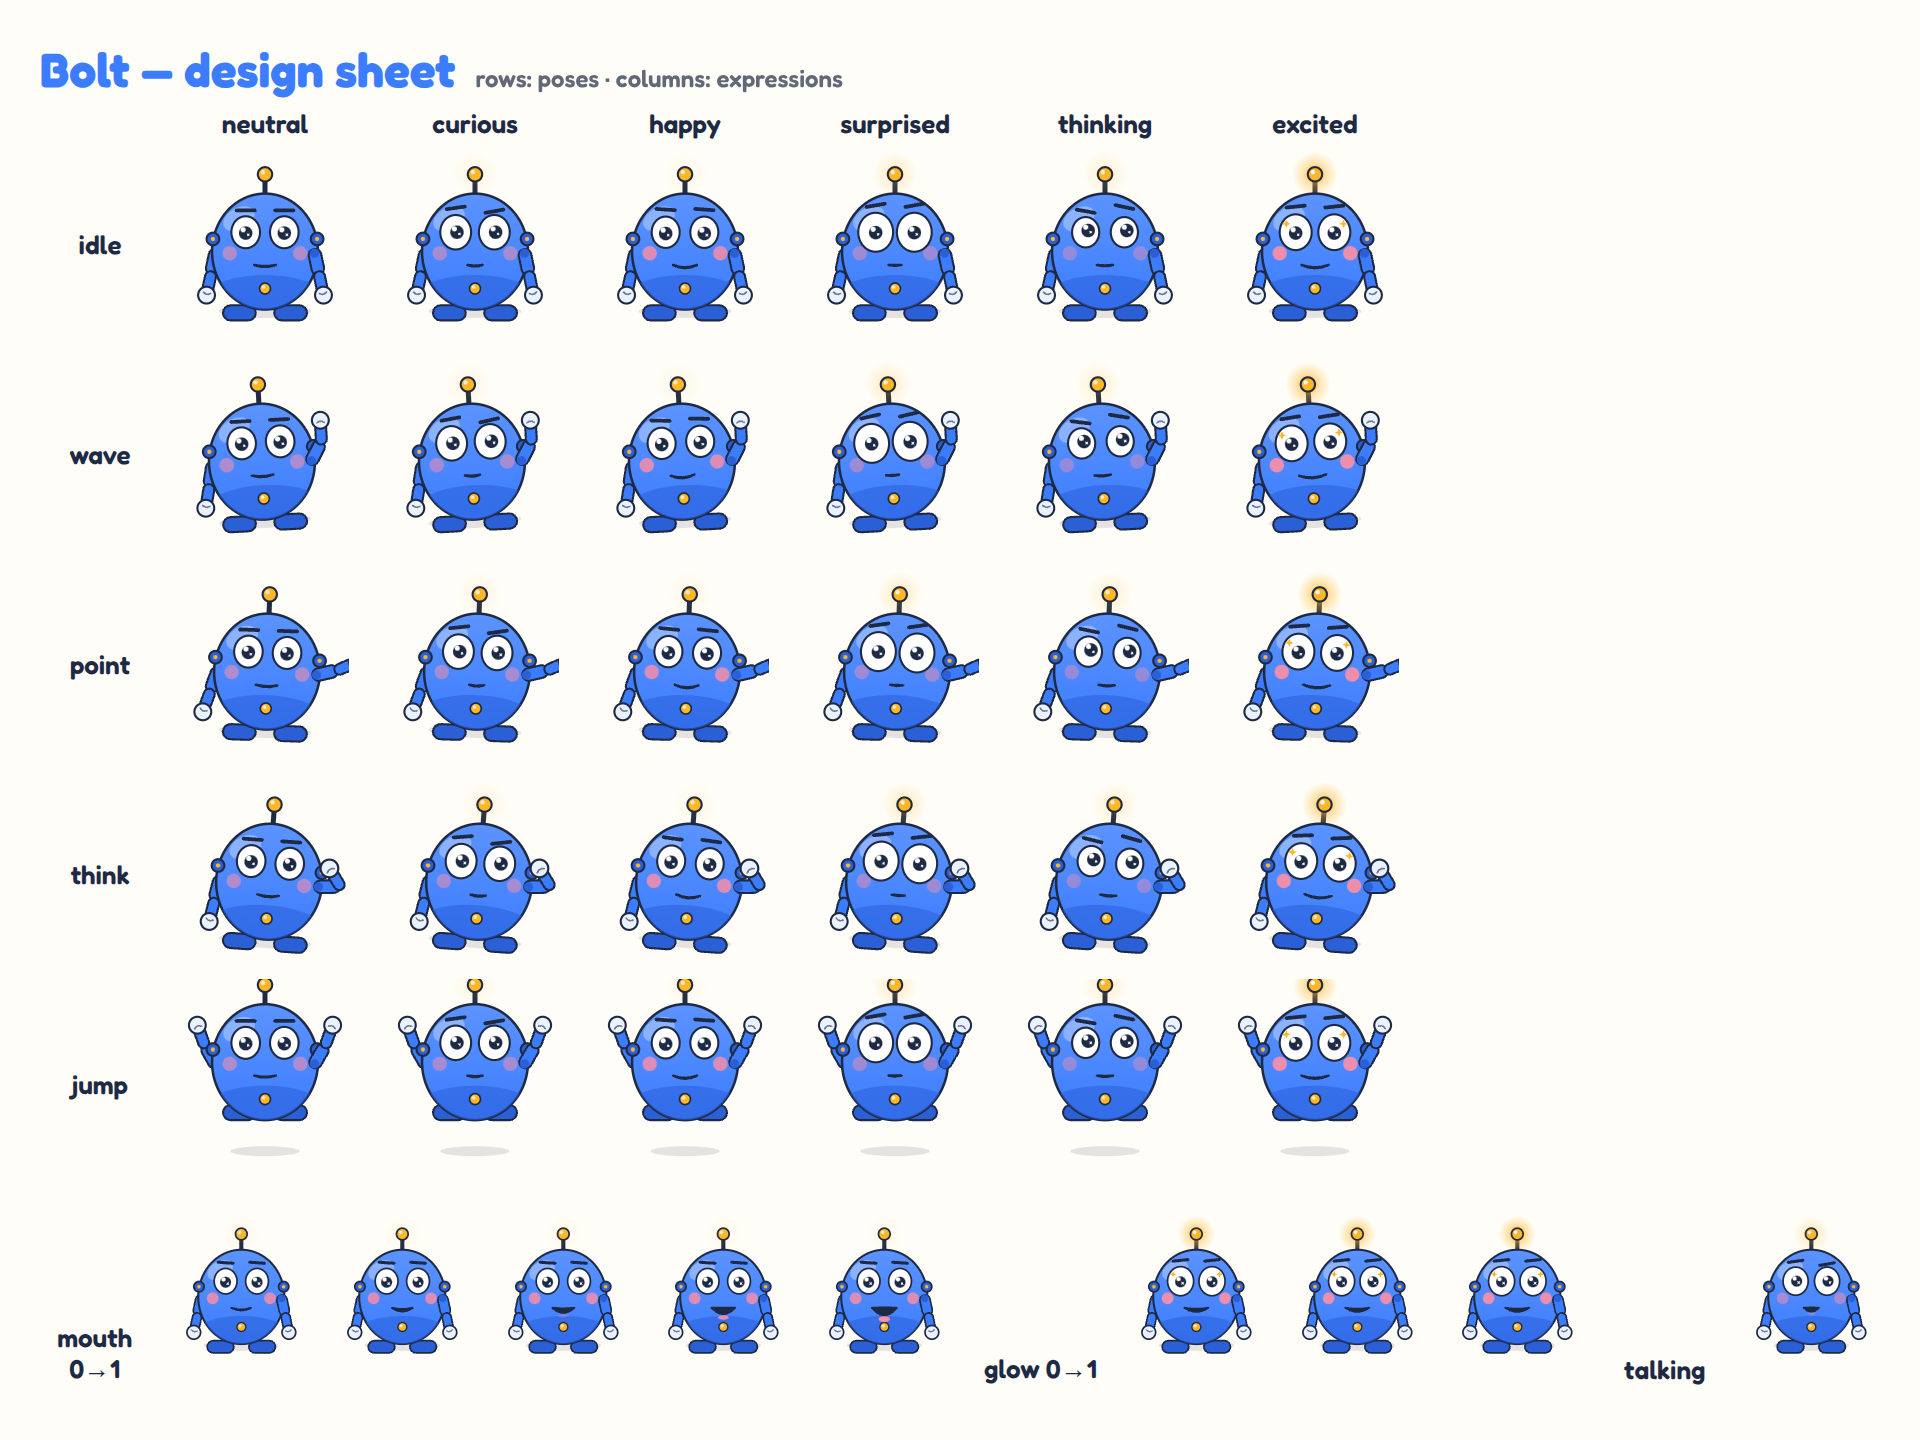
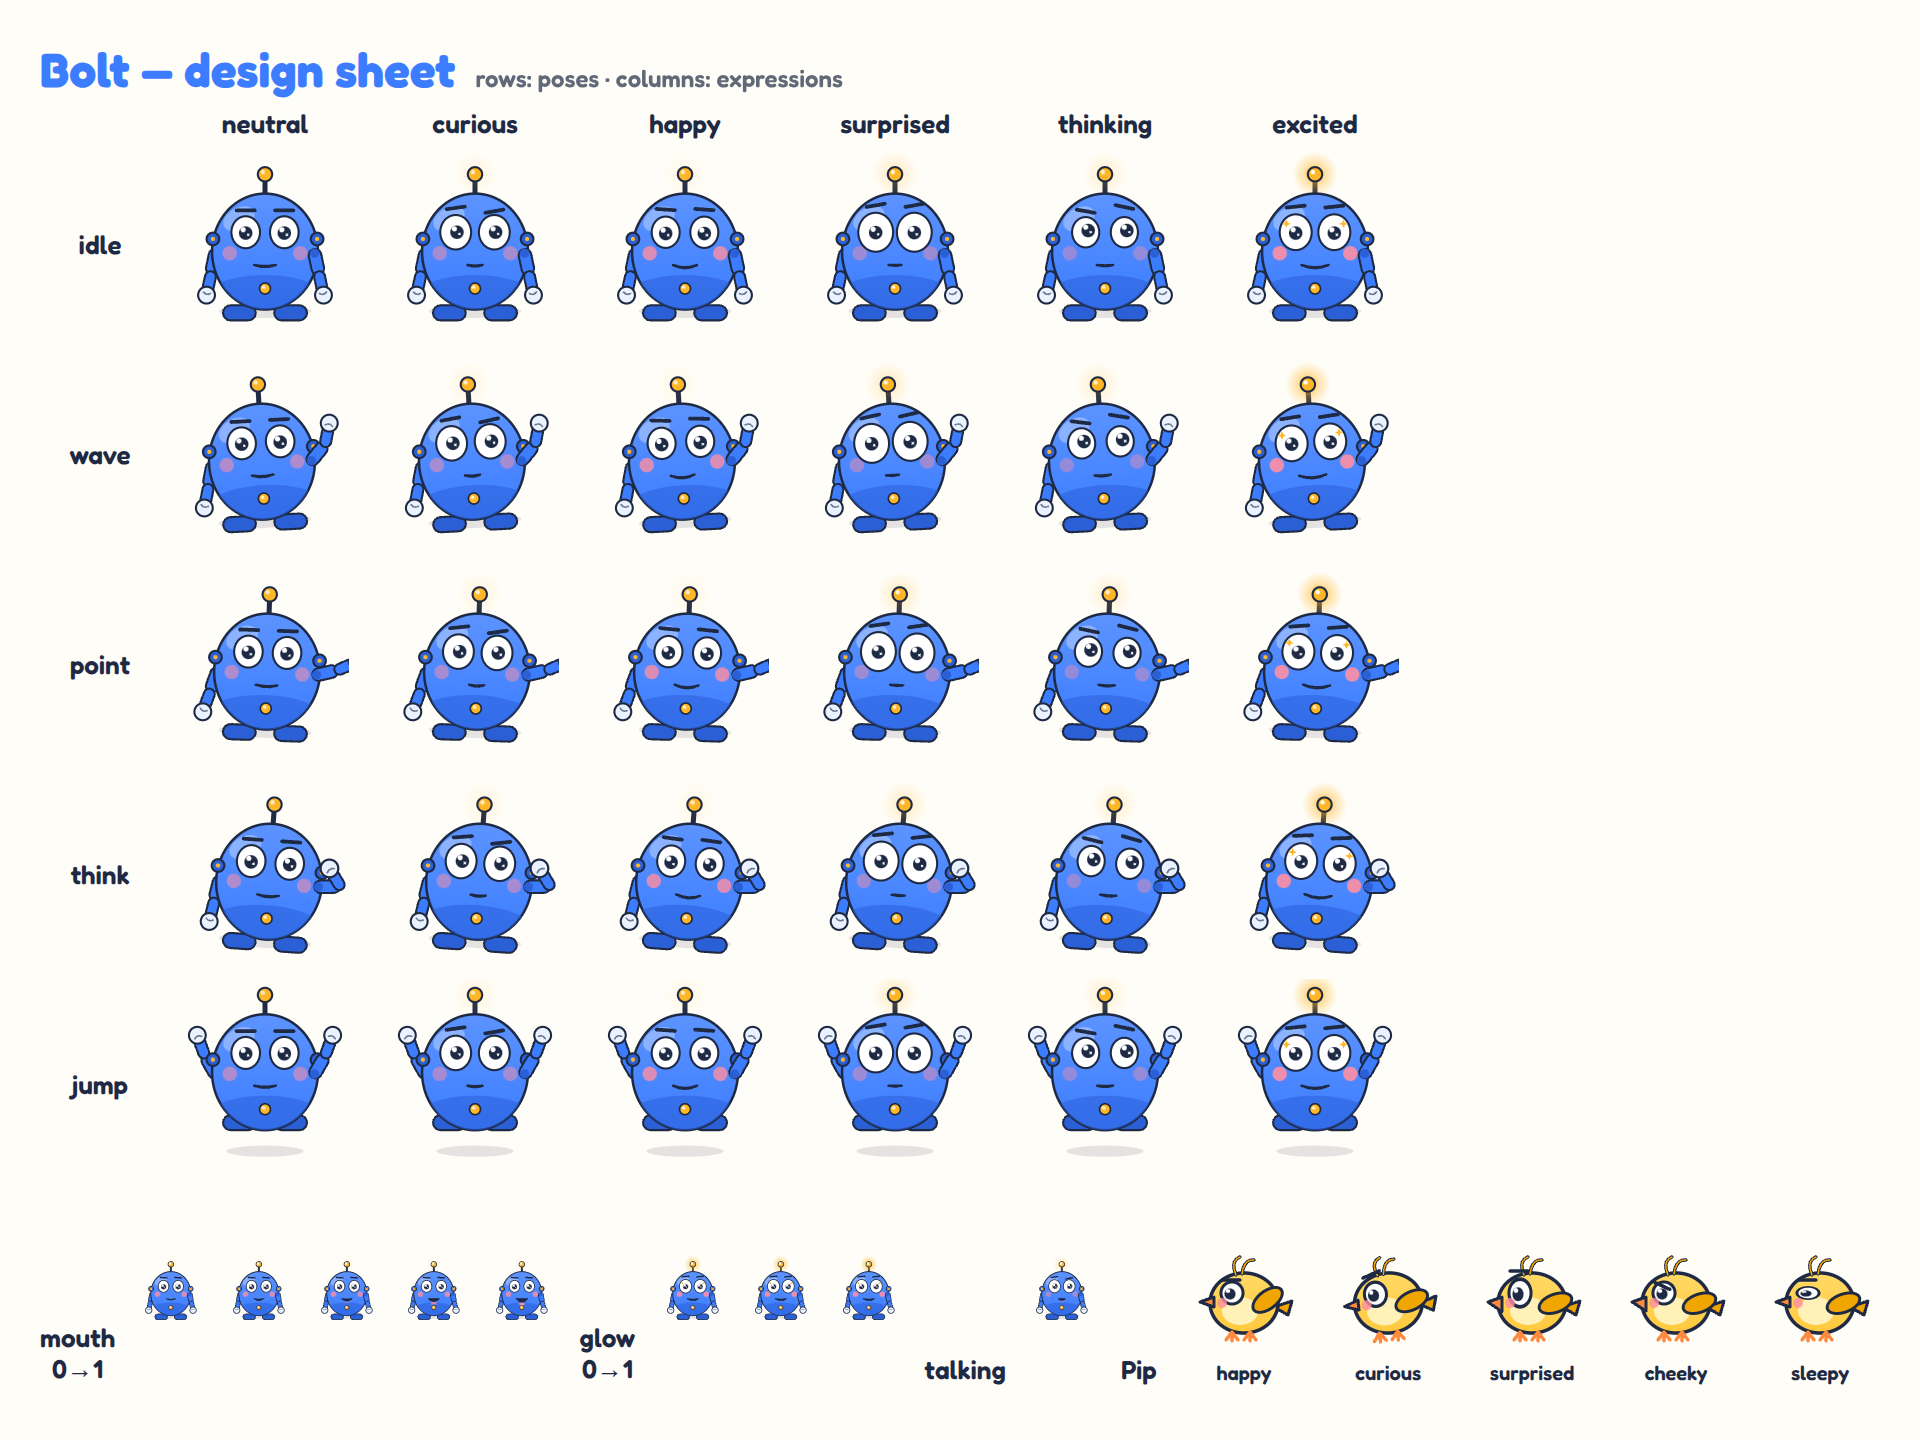
Proof pack from the final renders: EN + HI Shorts with Pip, weekly, design sheet
Claude-Session: https://claude.ai/code/session_01RiS32StYphPE6Dv7QasSFj

diff --git a/docs/PROOF.md b/docs/PROOF.md
@@ -1,10 +1,10 @@
 # Proof of output
 
-Generated 2026-09-16T19:45:23.994Z by `npm run proof` from the files in `out/`. Everything below was measured or extracted from the actual rendered MP4s — nothing is mocked.
+Generated 2026-09-17T05:49:17.165Z by `npm run proof` from the files in `out/`. Everything below was measured or extracted from the actual rendered MP4s — nothing is mocked.
 
-> Voice note: renders made in an environment without Hugging Face access use the clearly-labelled placeholder robot-babble voice (`voice=placeholder` in the log). The amplitude envelope is speech-like, so lip sync, captions, ducking and timing are exercised identically; on your machine or GitHub Actions the Kokoro voice is used and `generate` refuses to publish a placeholder-voiced draft.
+> Voice note: renders made in an environment without Hugging Face access use the bundled **eSpeak-NG** voice (`voice=espeak` in the log) — real, intelligible speech with a robotic timbre. On your machine or GitHub Actions the natural **Kokoro** voice is used, and `generate` refuses to publish audio that does not come from the configured engine.
 
-## Short (1080×1920)
+## Short — en (1080×1920)
 
 ```
 codec_name=h264
@@ -17,33 +17,74 @@ codec_type=audio
 sample_rate=48000
 channels=2
 r_frame_rate=0/0
-duration=56.512000
-size=11231605
+duration=53.482667
+size=12623118
 ```
 
-- Title: **Why is the sky blue?** · sections: hook 6.096s, answer 19.6s, wow 10.0s, experiment 12.9s, sign-off 1.7s · total 56.5s (hard max 59s)
+- Title: **Why is the sky blue?** · sections: hook 5.588s, answer 18.0s, wow 9.7s, experiment 11.5s, sign-off 1.9s · total 53.4s (hard max 59s)
 - Captions source: estimated; guess beat: 2.8s pause
 
 Measured loudness (voice vs. music-only gaps — music is ducked under speech):
 
-- speech: 0.6–2.5 s: -22.1 dBFS
-- gap after hook (music only): 6.4–6.8 s: -48.1 dBFS
-- speech: 10.3–12.3 s: -22.3 dBFS
-- sign-off tail (music only, fading): 54.9–56.3 s: -47.8 dBFS
+- speech: 1.1–3.1 s: -23.0 dBFS
+- gap after hook (music only): 6.5–6.9 s: -47.9 dBFS
+- speech: 10.3–12.3 s: -21.2 dBFS
+- sign-off tail (music only, fading): 51.8–53.2 s: -52.9 dBFS
 
 | Beat | Time | Frame |
 | --- | --- | --- |
-| hook | 1.4s | ![hook](images/proof/short-hook.png) |
-| guess bubbles | 7.7s | ![guess bubbles](images/proof/short-guess-bubbles.png) |
-| reveal | 10.0s | ![reveal](images/proof/short-reveal.png) |
-| answer | 13.3s | ![answer](images/proof/short-answer.png) |
-| wow fact (antenna glow) | 31.2s | ![wow fact (antenna glow)](images/proof/short-wow-fact-antenna-glow-.png) |
-| experiment (badge) | 41.5s | ![experiment (badge)](images/proof/short-experiment-badge-.png) |
-| sign-off (channel name) | 55.9s | ![sign-off (channel name)](images/proof/short-sign-off-channel-name-.png) |
+| hook | 2.0s | ![hook](images/proof/short-en-hook.png) |
+| guess bubbles | 7.7s | ![guess bubbles](images/proof/short-en-guess-bubbles.png) |
+| reveal | 10.0s | ![reveal](images/proof/short-en-reveal.png) |
+| answer | 13.3s | ![answer](images/proof/short-en-answer.png) |
+| wow fact (antenna glow) | 29.7s | ![wow fact (antenna glow)](images/proof/short-en-wow-fact-antenna-glow-.png) |
+| experiment (badge) | 39.7s | ![experiment (badge)](images/proof/short-en-experiment-badge-.png) |
+| sign-off (channel name) | 52.8s | ![sign-off (channel name)](images/proof/short-en-sign-off-channel-name-.png) |
 
 Eight consecutive frames (1/30 s apart) during speech — the mouth follows the syllables:
 
-![m0](images/proof/short-mouth-0.png) ![m1](images/proof/short-mouth-1.png) ![m2](images/proof/short-mouth-2.png) ![m3](images/proof/short-mouth-3.png) ![m4](images/proof/short-mouth-4.png) ![m5](images/proof/short-mouth-5.png) ![m6](images/proof/short-mouth-6.png) ![m7](images/proof/short-mouth-7.png)
+![m0](images/proof/short-en-mouth-0.png) ![m1](images/proof/short-en-mouth-1.png) ![m2](images/proof/short-en-mouth-2.png) ![m3](images/proof/short-en-mouth-3.png) ![m4](images/proof/short-en-mouth-4.png) ![m5](images/proof/short-en-mouth-5.png) ![m6](images/proof/short-en-mouth-6.png) ![m7](images/proof/short-en-mouth-7.png)
+
+## Short — hi (1080×1920)
+
+```
+codec_name=h264
+codec_type=video
+width=1080
+height=1920
+r_frame_rate=30/1
+codec_name=aac
+codec_type=audio
+sample_rate=48000
+channels=2
+r_frame_rate=0/0
+duration=53.482667
+size=12499389
+```
+
+- Title: **आसमान नीला क्यों है?** · sections: hook 6.567s, answer 17.9s, wow 10.3s, experiment 10.4s, sign-off 1.6s · total 53.4s (hard max 59s)
+- Captions source: estimated; guess beat: 2.8s pause
+
+Measured loudness (voice vs. music-only gaps — music is ducked under speech):
+
+- speech: 1.1–3.1 s: -21.7 dBFS
+- gap after hook (music only): 7.5–7.9 s: -46.6 dBFS
+- speech: 11.3–13.3 s: -22.2 dBFS
+- sign-off tail (music only, fading): 51.8–53.2 s: -52.9 dBFS
+
+| Beat | Time | Frame |
+| --- | --- | --- |
+| hook | 2.0s | ![hook](images/proof/short-hi-hook.png) |
+| guess bubbles | 8.7s | ![guess bubbles](images/proof/short-hi-guess-bubbles.png) |
+| reveal | 11.0s | ![reveal](images/proof/short-hi-reveal.png) |
+| answer | 14.3s | ![answer](images/proof/short-hi-answer.png) |
+| wow fact (antenna glow) | 30.5s | ![wow fact (antenna glow)](images/proof/short-hi-wow-fact-antenna-glow-.png) |
+| experiment (badge) | 41.1s | ![experiment (badge)](images/proof/short-hi-experiment-badge-.png) |
+| sign-off (channel name) | 52.8s | ![sign-off (channel name)](images/proof/short-hi-sign-off-channel-name-.png) |
+
+Eight consecutive frames (1/30 s apart) during speech — the mouth follows the syllables:
+
+![m0](images/proof/short-hi-mouth-0.png) ![m1](images/proof/short-hi-mouth-1.png) ![m2](images/proof/short-hi-mouth-2.png) ![m3](images/proof/short-hi-mouth-3.png) ![m4](images/proof/short-hi-mouth-4.png) ![m5](images/proof/short-hi-mouth-5.png) ![m6](images/proof/short-hi-mouth-6.png) ![m7](images/proof/short-hi-mouth-7.png)
 
 ## Weekly compilation (1920×1080)
 
@@ -58,18 +99,18 @@ codec_type=audio
 sample_rate=48000
 channels=2
 r_frame_rate=0/0
-duration=303.061333
-size=51943297
+duration=284.821333
+size=55577417
 ```
 
 Chapters written into the YouTube description:
 
 ```
 00:00 Why is the sky blue?
-01:01 Why do cats purr?
-02:00 Why does the Moon change shape?
-03:01 Why do we yawn?
-03:59 Why does it rain?
+00:58 Why do cats purr?
+01:55 Why does the Moon change shape?
+02:50 Why do we yawn?
+03:44 Why does it rain?
 ```
 
 | Beat | Time | Frame |
@@ -77,14 +118,14 @@ Chapters written into the YouTube description:
 | intro | 1.5s | ![intro](images/proof/long-intro.png) |
 | chapter card | 3.5s | ![chapter card](images/proof/long-chapter-card.png) |
 | episode 1 | 12.0s | ![episode 1](images/proof/long-episode-1.png) |
-| episode 2 (hook) | 66.0s | ![episode 2 (hook)](images/proof/long-episode-2-hook-.png) |
-| outro | 301.0s | ![outro](images/proof/long-outro.png) |
+| episode 2 (hook) | 63.0s | ![episode 2 (hook)](images/proof/long-episode-2-hook-.png) |
+| outro | 282.8s | ![outro](images/proof/long-outro.png) |
 
 Thumbnail (1280×720):
 
 ![thumbnail](images/proof/long-thumbnail.png)
 
-## Design sheet
+## Design sheet (Bolt + Pip)
 
 ![Bolt design sheet](images/bolt-showcase.png)
 
